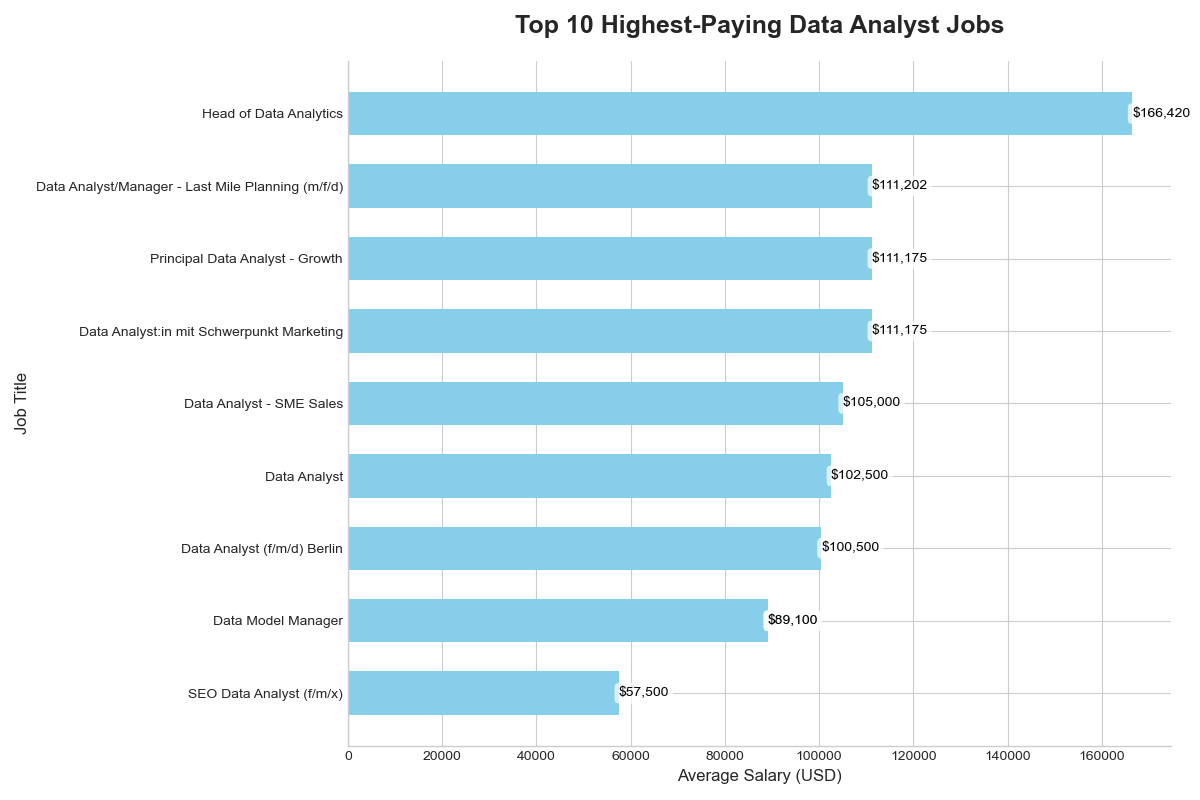
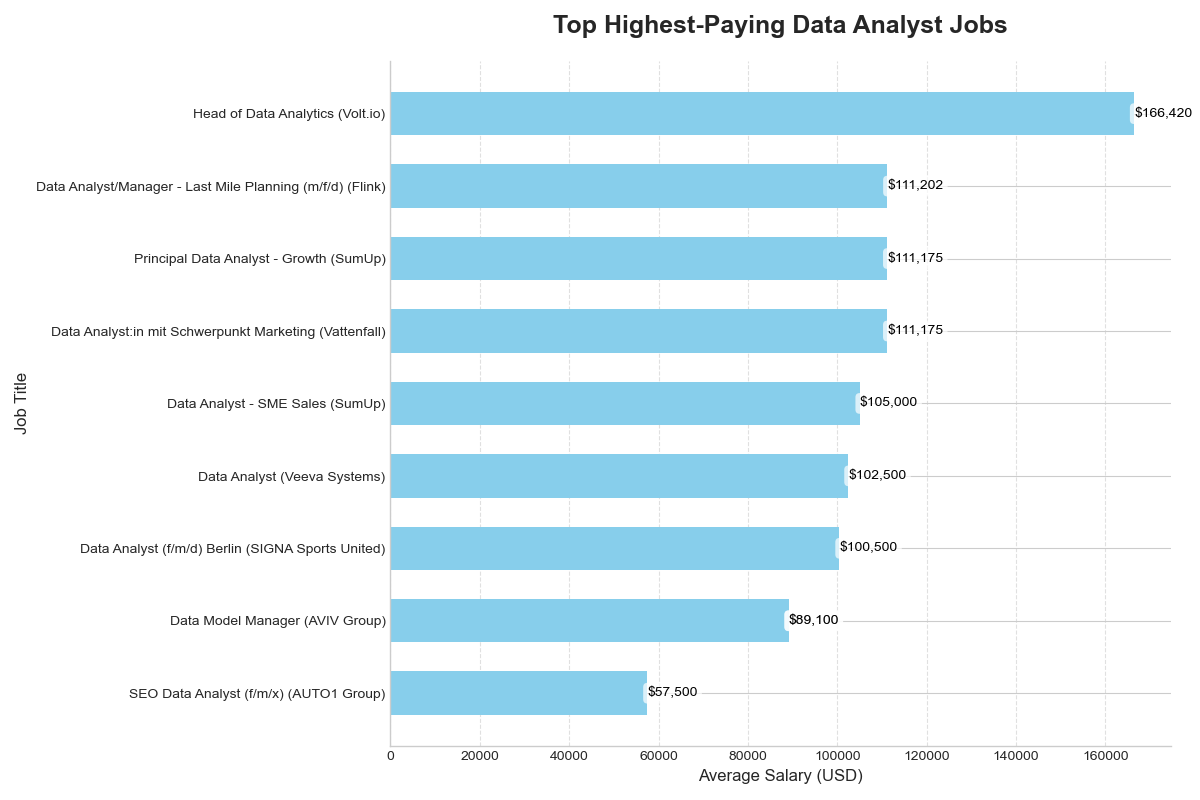
Update graphs

diff --git a/assets/graphs.py b/assets/graphs.py
@@ -1,117 +1,153 @@
 import matplotlib.pyplot as plt
 import pandas as pd
+import os
 
 # Set a consistent style for all plots
 plt.style.use('seaborn-v0_8-whitegrid')
 
 # --- Plot 1: Top 10 Paying Jobs ---
-df_jobs = pd.read_csv('/Users/graziellamorais/Desktop/Data projects/SQL_Project_Data_Job_Analysis/csv_files/1_top_paying_jobs.csv')
-df_jobs = df_jobs.sort_values(by='salary_year_avg', ascending=False)
-fig, ax1 = plt.subplots(figsize=(12, 8))
-bars1 = ax1.barh(df_jobs['job_title'], df_jobs['salary_year_avg'], color='skyblue', height=0.6)
-for bar in bars1:
-    ax1.text(bar.get_width(), bar.get_y() + bar.get_height()/2, 
-            f'${bar.get_width():,.0f}', va='center', ha='left', fontsize=10, color='black',
-            bbox=dict(boxstyle="round,pad=0.3", fc='white', ec='none', alpha=0.7))
-ax1.set_title('Top 10 Highest-Paying Data Analyst Jobs', fontsize=18, fontweight='bold', pad=20)
-ax1.set_xlabel('Average Salary (USD)', fontsize=12)
-ax1.set_ylabel('Job Title', fontsize=12)
-ax1.invert_yaxis()
-ax1.spines['top'].set_visible(False)
-ax1.spines['right'].set_visible(False)
-plt.tight_layout()
-plt.savefig('top_paying_jobs.png')
-plt.close(fig)
+try:
+    # Use the specific absolute file path provided by the user
+    file_path = '/Users/graziellamorais/Desktop/Data projects/SQL_Project_Data_Job_Analysis/csv_files/1_top_paying_jobs.csv'
+    df_jobs = pd.read_csv(file_path)
+
+    # Create a unique job label by combining job title and company name
+    df_jobs['job_label'] = df_jobs['job_title'] + ' (' + df_jobs['company_name'] + ')'
+
+    # Sort data for better visualization
+    df_jobs = df_jobs.sort_values(by='salary_year_avg', ascending=False)
+
+    # Create a horizontal bar chart
+    fig, ax1 = plt.subplots(figsize=(12, 8))
+    bars1 = ax1.barh(df_jobs['job_label'], df_jobs['salary_year_avg'], color='skyblue', height=0.6)
+
+    # Add value labels to the bars
+    for bar in bars1:
+        ax1.text(bar.get_width(), bar.get_y() + bar.get_height()/2, 
+                f'${bar.get_width():,.0f}', va='center', ha='left', fontsize=10, color='black',
+                bbox=dict(boxstyle="round,pad=0.3", fc='white', ec='none', alpha=0.7))
+
+    # Customize the chart
+    ax1.set_title('Top Highest-Paying Data Analyst Jobs', fontsize=18, fontweight='bold', pad=20)
+    ax1.set_xlabel('Average Salary (USD)', fontsize=12)
+    ax1.set_ylabel('Job Title', fontsize=12)
+    ax1.invert_yaxis()  # To display the highest salary at the top
+    ax1.xaxis.grid(True, linestyle='--', alpha=0.6)
+
+    # Remove the top and right spines
+    ax1.spines['top'].set_visible(False)
+    ax1.spines['right'].set_visible(False)
+
+    # Adjust layout
+    plt.tight_layout()
+    plt.savefig('top_paying_jobs.png')
+    plt.close(fig)
+    print("Chart for Top Paying Jobs created successfully.")
+except FileNotFoundError:
+    print(f"Error: The file '{file_path}' was not found. Please check the file path.")
 
 # --- Plot 2: Top Paying Job Skills ---
-df_skills_jobs = pd.read_csv('/Users/graziellamorais/Desktop/Data projects/SQL_Project_Data_Job_Analysis/csv_files/2_top_paying_job_skills.csv')
-skill_counts = df_skills_jobs['skills'].value_counts()
-skill_counts = skill_counts.sort_values(ascending=False)
-fig, ax2 = plt.subplots(figsize=(10, 7))
-bars2 = ax2.barh(skill_counts.index, skill_counts.values, color='coral', height=0.6)
-for bar in bars2:
-    ax2.text(bar.get_width(), bar.get_y() + bar.get_height()/2, 
-            f'{int(bar.get_width())}', va='center', ha='left', fontsize=10, color='black',
-            bbox=dict(boxstyle="round,pad=0.3", fc='white', ec='none', alpha=0.7))
-ax2.set_title('Skills Required for Top-Paying Jobs', fontsize=18, fontweight='bold', pad=20)
-ax2.set_xlabel('Number of Mentions', fontsize=12)
-ax2.set_ylabel('Skills', fontsize=12)
-ax2.invert_yaxis()
-ax2.spines['top'].set_visible(False)
-ax2.spines['right'].set_visible(False)
-plt.tight_layout()
-plt.savefig('top_paying_job_skills.png')
-plt.close(fig)
+try:
+    df_skills_jobs = pd.read_csv('csv_files/2_top_paying_job_skills.csv')
+    skill_counts = df_skills_jobs['skills'].value_counts()
+    skill_counts = skill_counts.sort_values(ascending=False)
+    fig, ax2 = plt.subplots(figsize=(10, 7))
+    bars2 = ax2.barh(skill_counts.index, skill_counts.values, color='coral', height=0.6)
+    for bar in bars2:
+        ax2.text(bar.get_width(), bar.get_y() + bar.get_height()/2, 
+                f'{int(bar.get_width())}', va='center', ha='left', fontsize=10, color='black',
+                bbox=dict(boxstyle="round,pad=0.3", fc='white', ec='none', alpha=0.7))
+    ax2.set_title('Skills Required for Top-Paying Jobs', fontsize=18, fontweight='bold', pad=20)
+    ax2.set_xlabel('Number of Mentions', fontsize=12)
+    ax2.set_ylabel('Skills', fontsize=12)
+    ax2.invert_yaxis()
+    ax2.spines['top'].set_visible(False)
+    ax2.spines['right'].set_visible(False)
+    plt.tight_layout()
+    plt.savefig('top_paying_job_skills.png')
+    plt.close(fig)
+except FileNotFoundError:
+    print("Error: The file 'csv_files/2_top_paying_job_skills.csv' was not found.")
+
 
 # --- Plot 3: Most Demanded Skills ---
-df_demanded = pd.read_csv('/Users/graziellamorais/Desktop/Data projects/SQL_Project_Data_Job_Analysis/csv_files/3_top_demanded_skills.csv')
-df_demanded = df_demanded.sort_values(by='demand_count', ascending=False)
-fig, ax3 = plt.subplots(figsize=(10, 7))
-bars3 = ax3.bar(df_demanded['skills'], df_demanded['demand_count'], color='teal', width=0.6)
-for bar in bars3:
-    yval = bar.get_height()
-    ax3.text(bar.get_x() + bar.get_width()/2, yval, 
-            f'{int(yval)}', ha='center', va='bottom', fontsize=10, color='black',
-            bbox=dict(boxstyle="round,pad=0.3", fc='white', ec='none', alpha=0.7))
-ax3.set_title('Top 5 Most Demanded Skills', fontsize=18, fontweight='bold', pad=20)
-ax3.set_xlabel('Skills', fontsize=12)
-ax3.set_ylabel('Demand Count', fontsize=12)
-plt.xticks(rotation=45, ha='right')
-ax3.spines['top'].set_visible(False)
-ax3.spines['right'].set_visible(False)
-plt.tight_layout()
-plt.savefig('top_demanded_skills.png')
-plt.close(fig)
+try:
+    df_demanded = pd.read_csv('csv_files/3_top_demanded_skills.csv')
+    df_demanded = df_demanded.sort_values(by='demand_count', ascending=False)
+    fig, ax3 = plt.subplots(figsize=(10, 7))
+    bars3 = ax3.bar(df_demanded['skills'], df_demanded['demand_count'], color='teal', width=0.6)
+    for bar in bars3:
+        yval = bar.get_height()
+        ax3.text(bar.get_x() + bar.get_width()/2, yval, 
+                f'{int(yval)}', ha='center', va='bottom', fontsize=10, color='black',
+                bbox=dict(boxstyle="round,pad=0.3", fc='white', ec='none', alpha=0.7))
+    ax3.set_title('Top 5 Most Demanded Skills', fontsize=18, fontweight='bold', pad=20)
+    ax3.set_xlabel('Skills', fontsize=12)
+    ax3.set_ylabel('Demand Count', fontsize=12)
+    plt.xticks(rotation=45, ha='right')
+    ax3.spines['top'].set_visible(False)
+    ax3.spines['right'].set_visible(False)
+    plt.tight_layout()
+    plt.savefig('top_demanded_skills.png')
+    plt.close(fig)
+except FileNotFoundError:
+    print("Error: The file 'csv_files/3_top_demanded_skills.csv' was not found.")
 
 # --- Plot 4: Top Paying Skills ---
-df_paying_skills = pd.read_csv('/Users/graziellamorais/Desktop/Data projects/SQL_Project_Data_Job_Analysis/csv_files/4_top_paying_skills.csv')
-df_paying_skills = df_paying_skills.sort_values(by='avg_salary', ascending=True)
-fig, ax4 = plt.subplots(figsize=(12, 8))
-bars4 = ax4.barh(df_paying_skills['skills'], df_paying_skills['avg_salary'], color='purple', height=0.6)
-for bar in bars4:
-    ax4.text(bar.get_width(), bar.get_y() + bar.get_height()/2, 
-            f'${bar.get_width():,.0f}', va='center', ha='left', fontsize=10, color='black',
-            bbox=dict(boxstyle="round,pad=0.3", fc='white', ec='none', alpha=0.7))
-ax4.set_title('Top 10 Highest-Paying Skills', fontsize=18, fontweight='bold', pad=20)
-ax4.set_xlabel('Average Salary (USD)', fontsize=12)
-ax4.set_ylabel('Skills', fontsize=12)
-ax4.spines['top'].set_visible(False)
-ax4.spines['right'].set_visible(False)
-plt.tight_layout()
-plt.savefig('top_paying_skills.png')
-plt.close(fig)
+try:
+    df_paying_skills = pd.read_csv('csv_files/4_top_paying_skills.csv')
+    df_paying_skills = df_paying_skills.sort_values(by='avg_salary', ascending=True)
+    fig, ax4 = plt.subplots(figsize=(12, 8))
+    bars4 = ax4.barh(df_paying_skills['skills'], df_paying_skills['avg_salary'], color='purple', height=0.6)
+    for bar in bars4:
+        ax4.text(bar.get_width(), bar.get_y() + bar.get_height()/2, 
+                f'${bar.get_width():,.0f}', va='center', ha='left', fontsize=10, color='black',
+                bbox=dict(boxstyle="round,pad=0.3", fc='white', ec='none', alpha=0.7))
+    ax4.set_title('Top 10 Highest-Paying Skills', fontsize=18, fontweight='bold', pad=20)
+    ax4.set_xlabel('Average Salary (USD)', fontsize=12)
+    ax4.set_ylabel('Skills', fontsize=12)
+    ax4.spines['top'].set_visible(False)
+    ax4.spines['right'].set_visible(False)
+    plt.tight_layout()
+    plt.savefig('top_paying_skills.png')
+    plt.close(fig)
+except FileNotFoundError:
+    print("Error: The file 'csv_files/4_top_paying_skills.csv' was not found.")
 
 # --- Plot 5: Optimal Skills ---
-df_optimal = pd.read_csv('/Users/graziellamorais/Desktop/Data projects/SQL_Project_Data_Job_Analysis/csv_files/5_optimal_skills.csv')
-fig, ax5 = plt.subplots(figsize=(12, 8))
-scatter = ax5.scatter(
-    x=df_optimal['avg_salary'], 
-    y=df_optimal['demand_count'], 
-    s=df_optimal['demand_count'] * 100,
-    alpha=0.6,
-    edgecolors='w',
-    c=['teal', 'coral', 'skyblue', 'purple']
-)
-for i, txt in enumerate(df_optimal['skills']):
-    ax5.annotate(
-        txt, 
-        (df_optimal['avg_salary'][i], df_optimal['demand_count'][i]),
-        textcoords="offset points",
-        xytext=(0, 10),
-        ha='center',
-        fontsize=10,
-        fontweight='bold'
+try:
+    df_optimal = pd.read_csv('csv_files/5_optimal_skills.csv')
+    fig, ax5 = plt.subplots(figsize=(12, 8))
+    scatter = ax5.scatter(
+        x=df_optimal['avg_salary'], 
+        y=df_optimal['demand_count'], 
+        s=df_optimal['demand_count'] * 100,
+        alpha=0.6,
+        edgecolors='w',
+        c=['teal', 'coral', 'skyblue', 'purple']
     )
-ax5.set_title('Optimal Skills: Demand vs. Average Salary', fontsize=18, fontweight='bold', pad=20)
-ax5.set_xlabel('Average Salary (USD)', fontsize=12)
-ax5.set_ylabel('Demand Count', fontsize=12)
-ax5.set_xlim(df_optimal['avg_salary'].min() * 0.95, df_optimal['avg_salary'].max() * 1.1)
-ax5.set_ylim(df_optimal['demand_count'].min() * 0.9, df_optimal['demand_count'].max() * 1.1)
-ax5.grid(True, linestyle='--', alpha=0.6)
-ax5.spines['top'].set_visible(False)
-ax5.spines['right'].set_visible(False)
-plt.tight_layout()
-plt.savefig('optimal_skills.png')
-plt.close(fig)
+    for i, txt in enumerate(df_optimal['skills']):
+        ax5.annotate(
+            txt, 
+            (df_optimal['avg_salary'][i], df_optimal['demand_count'][i]),
+            textcoords="offset points",
+            xytext=(0, 10),
+            ha='center',
+            fontsize=10,
+            fontweight='bold'
+        )
+    ax5.set_title('Optimal Skills: Demand vs. Average Salary', fontsize=18, fontweight='bold', pad=20)
+    ax5.set_xlabel('Average Salary (USD)', fontsize=12)
+    ax5.set_ylabel('Demand Count', fontsize=12)
+    ax5.set_xlim(df_optimal['avg_salary'].min() * 0.95, df_optimal['avg_salary'].max() * 1.1)
+    ax5.set_ylim(df_optimal['demand_count'].min() * 0.9, df_optimal['demand_count'].max() * 1.1)
+    ax5.grid(True, linestyle='--', alpha=0.6)
+    ax5.spines['top'].set_visible(False)
+    ax5.spines['right'].set_visible(False)
+    plt.tight_layout()
+    plt.savefig('optimal_skills.png')
+    plt.close(fig)
+except FileNotFoundError:
+    print("Error: The file 'csv_files/5_optimal_skills.csv' was not found.")
 
 print("All charts have been created successfully.")
